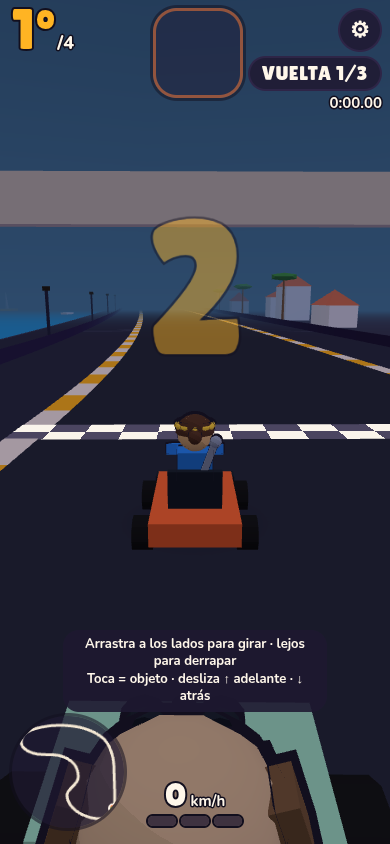
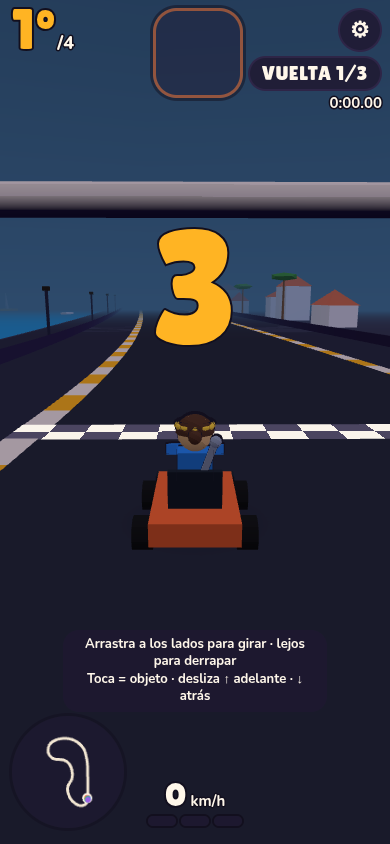
Revisión: minimapa visible, aviso táctil y arco más fino
El óvalo ya no se estira hasta el borde del círculo del minimapa.
La ayuda táctil se oculta en menús y podio, y en carrera al primer toque o a los 4 s.
La barra de salida es una cápsula de hueso, un 30 % más fina, con el canto en sombra.

Changed region(s): [[0.0308, 0.8318, 0.9538, 1.0], [0.0, 0.1848, 1.0, 0.4313]]

diff --git a/apps/client/src/render/themes.ts b/apps/client/src/render/themes.ts
@@ -1,6 +1,6 @@
 import * as THREE from "three";
 import { closestPoint, pointAt, type ThemeId, type Track, type TrackDef } from "@derrape/shared";
-import { toonMaterial } from "./materials";
+import { sharedVertexToon, toonMaterial } from "./materials";
 import { leftNormals, type TrackColors } from "./trackMesh";
 
 // Kits de tema: colores del entorno y decoración reutilizable. Todo con primitivas low-poly
@@ -108,10 +108,31 @@ function startArch(scene: THREE.Object3D, track: Track, color: number) {
     post.position.set(p.x + nx * half * side, p.y + 3, p.z + nz * half * side);
     scene.add(post);
   }
-  const bar = new THREE.Mesh(new THREE.BoxGeometry(half * 2 + 0.6, 1.2, 0.5), toon(HUESO));
+  // Cápsula ~30 % más fina que la caja de 1,2 m, con el canto de abajo en Sombra.
+  const bar = new THREE.Mesh(archBarGeometry(half * 2 + 0.6), sharedVertexToon());
   bar.position.set(p.x, p.y + 6, p.z);
   bar.rotation.y = archBarYaw(p.heading);
   scene.add(bar);
+}
+
+/** Barra del arco: cápsula en Hueso con el canto inferior en Sombra. Una sola malla. */
+function archBarGeometry(length: number): THREE.BufferGeometry {
+  const radius = 0.42;
+  const straight = Math.max(0.3, length - radius * 2);
+  const geo = new THREE.CapsuleGeometry(radius, straight, 3, 8);
+  geo.rotateZ(Math.PI / 2);
+  const pos = geo.getAttribute("position");
+  const colors = new Float32Array(pos.count * 3);
+  const bone = new THREE.Color(HUESO);
+  const sombra = new THREE.Color(SOMBRA);
+  for (let i = 0; i < pos.count; i++) {
+    const c = pos.getY(i) < -radius * 0.45 ? sombra : bone;
+    colors[i * 3] = c.r;
+    colors[i * 3 + 1] = c.g;
+    colors[i * 3 + 2] = c.b;
+  }
+  geo.setAttribute("color", new THREE.BufferAttribute(colors, 3));
+  return geo;
 }
 
 /** Marcas planas de turbo sobre la pista (sin tocar trackMesh). */

diff --git a/apps/client/src/render/minimap.ts b/apps/client/src/render/minimap.ts
@@ -13,12 +13,15 @@ export interface MapBounds {
  * mirando hacia +z, el +x del mundo está a su izquierda. Sin el volteo,
  * una curva a la izquierda se dibuja a la derecha.
  */
-export function projectMinimap(x: number, z: number, bounds: MapBounds, width: number, height: number, pad = 10): [number, number] {
-  const w = width - pad * 2;
-  const h = height - pad * 2;
-  const sx = (x - bounds.minX) / Math.max(1e-3, bounds.maxX - bounds.minX);
-  const sz = (z - bounds.minZ) / Math.max(1e-3, bounds.maxZ - bounds.minZ);
-  return [pad + (1 - sx) * w, pad + (1 - sz) * h];
+export function projectMinimap(x: number, z: number, bounds: MapBounds, width: number, height: number, pad = 14): [number, number] {
+  const span = Math.max(1e-3, bounds.maxX - bounds.minX, bounds.maxZ - bounds.minZ);
+  // Escala uniforme y margen: el canvas se recorta en círculo. Si el trazado
+  // (un óvalo) llena el cuadrado, el trazo cae en el borde y desaparece.
+  const fit = (Math.min(width, height) - pad * 2) * 0.72;
+  const scale = fit / span;
+  const midX = (bounds.minX + bounds.maxX) / 2;
+  const midZ = (bounds.minZ + bounds.maxZ) / 2;
+  return [width / 2 - (x - midX) * scale, height / 2 - (z - midZ) * scale];
 }
 
 /** Minimapa 2D del circuito (canvas HTML encima del juego). */
@@ -48,7 +51,7 @@ export class Minimap {
     this.maxX = Math.max(...xs);
     this.minZ = Math.min(...zs);
     this.maxZ = Math.max(...zs);
-    this.ctx.clearRect(0, 0, this.canvas.width, this.canvas.height);
+    this.draw([], 0, track);
   }
 
   private project(x: number, z: number): [number, number] {

diff --git a/apps/client/index.html b/apps/client/index.html
@@ -82,7 +82,7 @@
     <div id="home" class="screen" hidden>
       <div class="card home-card">
         <h1 class="logo"><span class="logo-d">D</span>errape</h1>
-        <label class="field">Tu nombre <input id="home-name" maxlength="12" autocomplete="off" enterkeyhint="done" /></label>
+        <label class="field">Tu nombre <input id="home-name" placeholder="Escribe tu nombre" maxlength="12" autocomplete="off" enterkeyhint="done" /></label>
         <button id="home-create" class="primary">Crear sala</button>
         <div class="join-row">
           <input id="home-code" placeholder="CÓDIGO" maxlength="4" autocomplete="off" autocapitalize="characters" enterkeyhint="go" />
@@ -134,7 +134,6 @@
     </div>
 
     <div id="help">Flechas/WASD · Espacio = derrape · E = objeto adelante · Q = atrás · Esc = ajustes · F1 = tuning</div>
-    <div id="touch-help">Arrastra a los lados para girar · lejos para derrapar<br />Toca = objeto · desliza ↑ adelante · ↓ atrás</div>
 
     <div id="menu" class="overlay" hidden>
       <div class="card">
@@ -157,6 +156,8 @@
     <div id="rotate" class="overlay">
       <div class="card"><div class="rotate-icon">↻📱</div><h2>Pon el móvil en vertical</h2><p>Derrape se juega en vertical.</p></div>
     </div>
+
+    <div id="touch-help">Arrastra a los lados para girar · lejos para derrapar<br />Toca = objeto · desliza ↑ adelante · ↓ atrás</div>
 
     <script type="module" src="/src/main.ts"></script>
   </body>

diff --git a/apps/client/src/input/touch.ts b/apps/client/src/input/touch.ts
@@ -31,6 +31,20 @@ window.addEventListener("keydown", (e) => {
   if (e.code === "KeyQ") itemQueue.push("back");
 });
 
+let hintTimer = 0;
+
+/** Vuelve a enseñar la ayuda táctil al empezar una carrera. Se va al primer toque o a los 4 s. */
+export function showTouchHint() {
+  document.body.classList.remove("hint-gone");
+  const hint = document.querySelector<HTMLElement>("#touch-help");
+  if (!hint) return;
+  hint.classList.remove("show");
+  void hint.offsetWidth;
+  hint.classList.add("show");
+  window.clearTimeout(hintTimer);
+  hintTimer = window.setTimeout(() => document.body.classList.add("hint-gone"), 4500);
+}
+
 export function setupTouchControls(zone: HTMLElement) {
   // En un móvil la ayuda de teclado no debe asomar ni antes del primer toque.
   if (window.matchMedia("(pointer: coarse)").matches) {
@@ -46,6 +60,10 @@ export function setupTouchControls(zone: HTMLElement) {
     document.body.classList.add("touch");
   };
   window.addEventListener("touchstart", activate, { passive: true });
+  window.addEventListener("pointerdown", () => {
+    if (document.body.classList.contains("in-menu")) return;
+    document.body.classList.add("hint-gone");
+  });
 
   const sync = () => {
     touch.holding = fingers.size > 0;

diff --git a/apps/client/src/style.css b/apps/client/src/style.css
@@ -230,9 +230,22 @@ body.touch #touch-zone { display: block; }
   text-align: center;
   color: var(--texto);
   pointer-events: none;
-  animation: fade-out 600ms ease-out 6s forwards;
+  z-index: 6;
 }
-body.touch #touch-help { display: block; }
+body.touch #touch-help.show {
+  display: block;
+  animation: fade-out 500ms ease-out 4s forwards;
+}
+body.hint-gone #touch-help,
+body.in-menu #touch-help,
+.screen:not([hidden]) ~ #touch-help,
+#results:not([hidden]) ~ #touch-help,
+#menu:not([hidden]) ~ #touch-help,
+#pause:not([hidden]) ~ #touch-help,
+#loading:not([hidden]) ~ #touch-help,
+#reconnecting:not([hidden]) ~ #touch-help {
+  display: none !important;
+}
 @keyframes fade-out { to { opacity: 0; } }
 
 #item-slot {
@@ -674,6 +687,7 @@ body.touch #touch-help { display: block; }
   -webkit-user-select: text;
 }
 .screen input::placeholder { color: var(--tenue); opacity: 1; }
+#home-name::placeholder { color: rgb(243 231 211 / 0.5); opacity: 1; }
 .field { display: flex; flex-direction: column; gap: 6px; font-size: 13px; font-weight: 800; color: var(--tenue); }
 .join-row { display: grid; grid-template-columns: 1fr auto; gap: 8px; }
 .join-row input {

diff --git a/packages/shared/src/track.ts b/packages/shared/src/track.ts
@@ -267,10 +267,14 @@ export function startPose(track: Track): { x: number; z: number; heading: number
   return pointAt(track, 0);
 }
 
-/** Posiciones de la parrilla de salida: dos columnas detrás de la meta. */
+/**
+ * Parrilla: dos columnas detrás de la meta.
+ * La fila de atrás va a 10 m (la cámara de persecución está a ~7,5 m): si no,
+ * ese kart queda entre la cámara y el piloto y se ve enorme, pegado al objetivo.
+ */
 export function gridPose(track: Track, slot: number): { x: number; z: number; heading: number } {
   const row = Math.floor(slot / 2);
   const side = slot % 2 === 0 ? 1 : -1;
   const lateral = side * Math.min(3, track.width / 4);
-  return pointAt(track, -6 - row * 6 - (side < 0 ? 3 : 0), lateral);
+  return pointAt(track, -6 - row * 10 - (side < 0 ? 3 : 0), lateral);
 }

diff --git a/apps/client/src/game/raceSession.ts b/apps/client/src/game/raceSession.ts
@@ -61,7 +61,7 @@ import {
 import { sfx } from "../audio/sfx";
 import { readInput } from "../input";
 import { readKeyboard } from "../input/keyboard";
-import { takeItemAction, touch } from "../input/touch";
+import { showTouchHint, takeItemAction, touch } from "../input/touch";
 import { INTERP_DELAY, ItemsBuffer, SnapshotBuffer } from "../net/interpolation";
 import type { Net } from "../net/net";
 import { BlobShadows } from "../render/blobShadow";
@@ -176,6 +176,7 @@ export function createRaceSession(view: GameView, opts: SessionOptions): RaceSes
   const track = buildTrackFromDef(def);
   const theme = THEMES[def.theme];
   const laps = online?.start.laps ?? def.laps;
+  showTouchHint();
 
   // El cielo (radio 230) tiene que caber en el plano lejano. La niebla corta a 190.
   camera.far = 260;

diff --git a/apps/client/src/render/minimap.test.ts b/apps/client/src/render/minimap.test.ts
@@ -16,4 +16,17 @@ describe("minimapa", () => {
     const [, top] = projectMinimap(50, 80, bounds, size.w, size.h, size.pad);
     expect(top).toBeLessThan(bottom);
   });
+
+  it("un óvalo cabe dentro del círculo y no se recorta en el borde", () => {
+    const oval = { minX: -170, maxX: 170, minZ: -220, maxZ: 220 };
+    const w = 120;
+    const h = 120;
+    for (let i = 0; i < 32; i++) {
+      const a = (i / 32) * Math.PI * 2;
+      const [sx, sy] = projectMinimap(170 * Math.cos(a), 220 * Math.sin(a), oval, w, h, 14);
+      const dx = sx - w / 2;
+      const dy = sy - h / 2;
+      expect(Math.hypot(dx, dy)).toBeLessThan(w / 2 - 6);
+    }
+  });
 });
